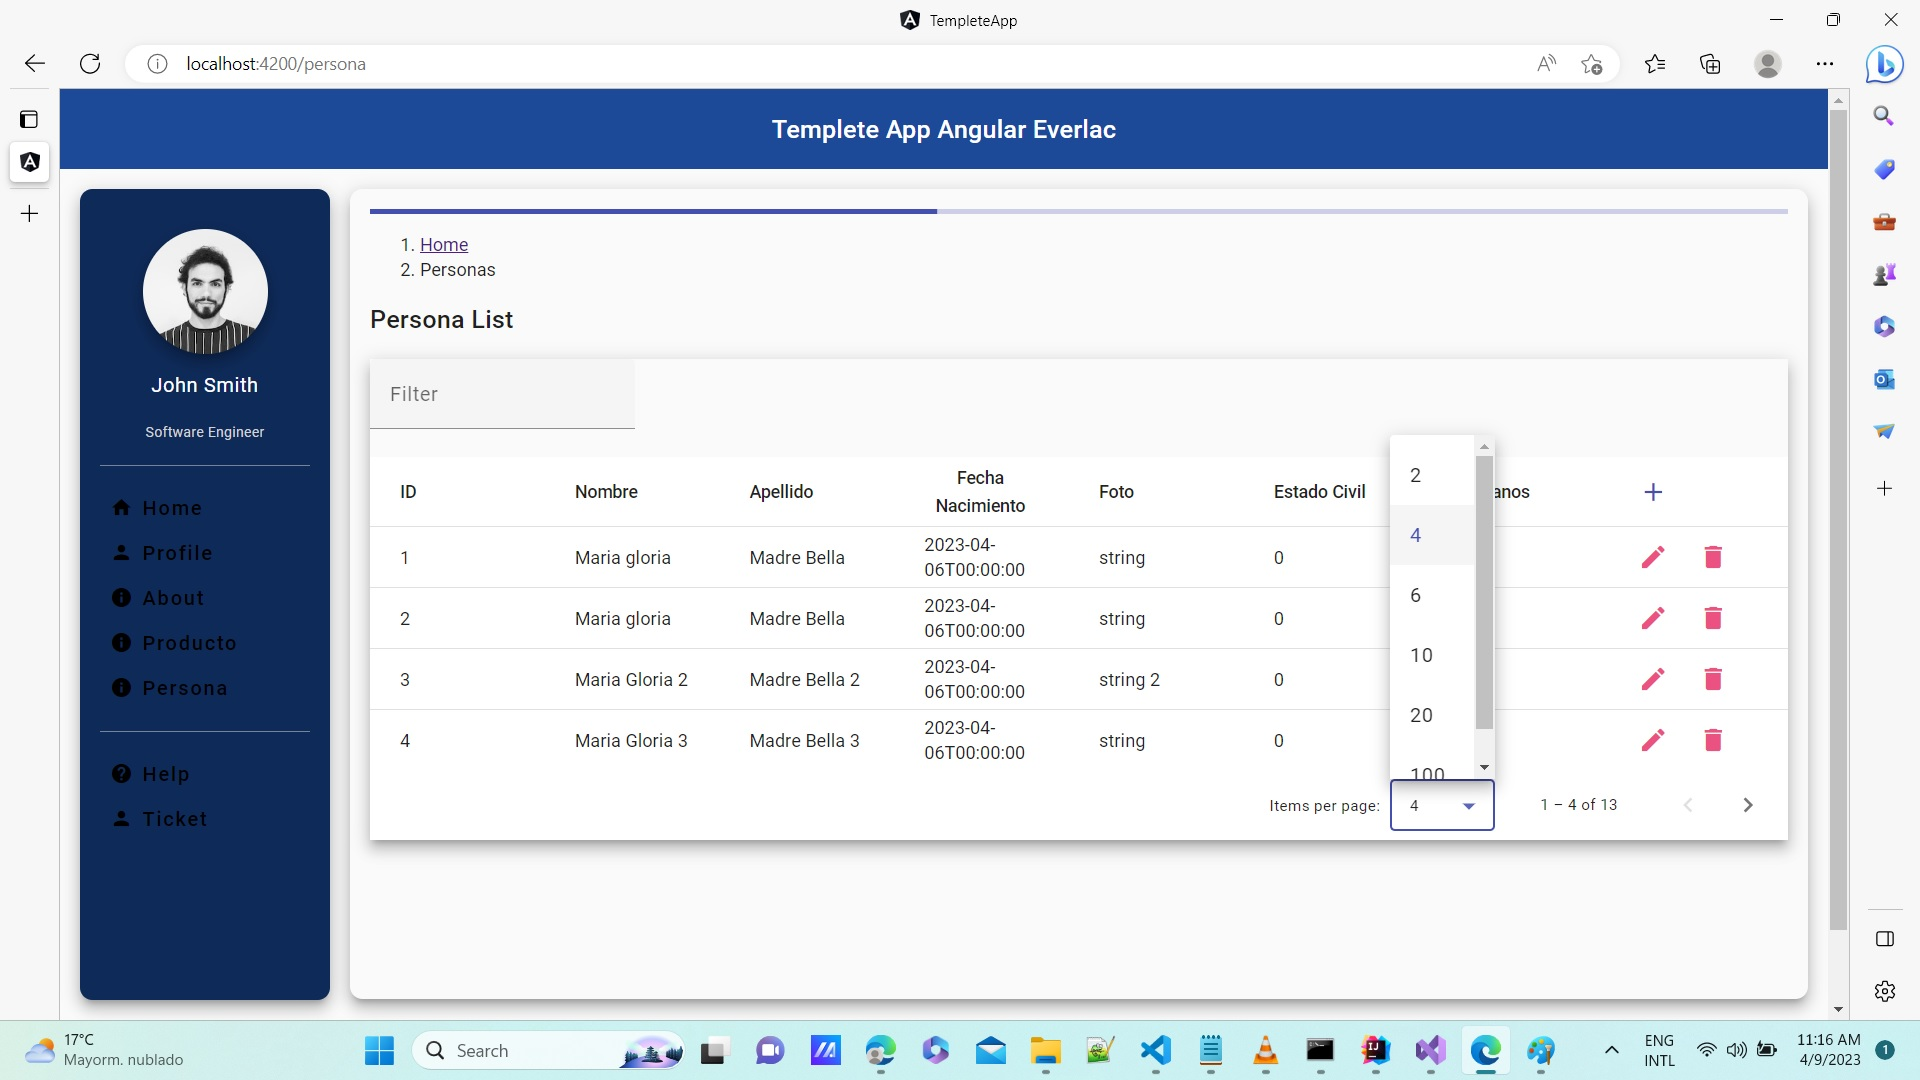
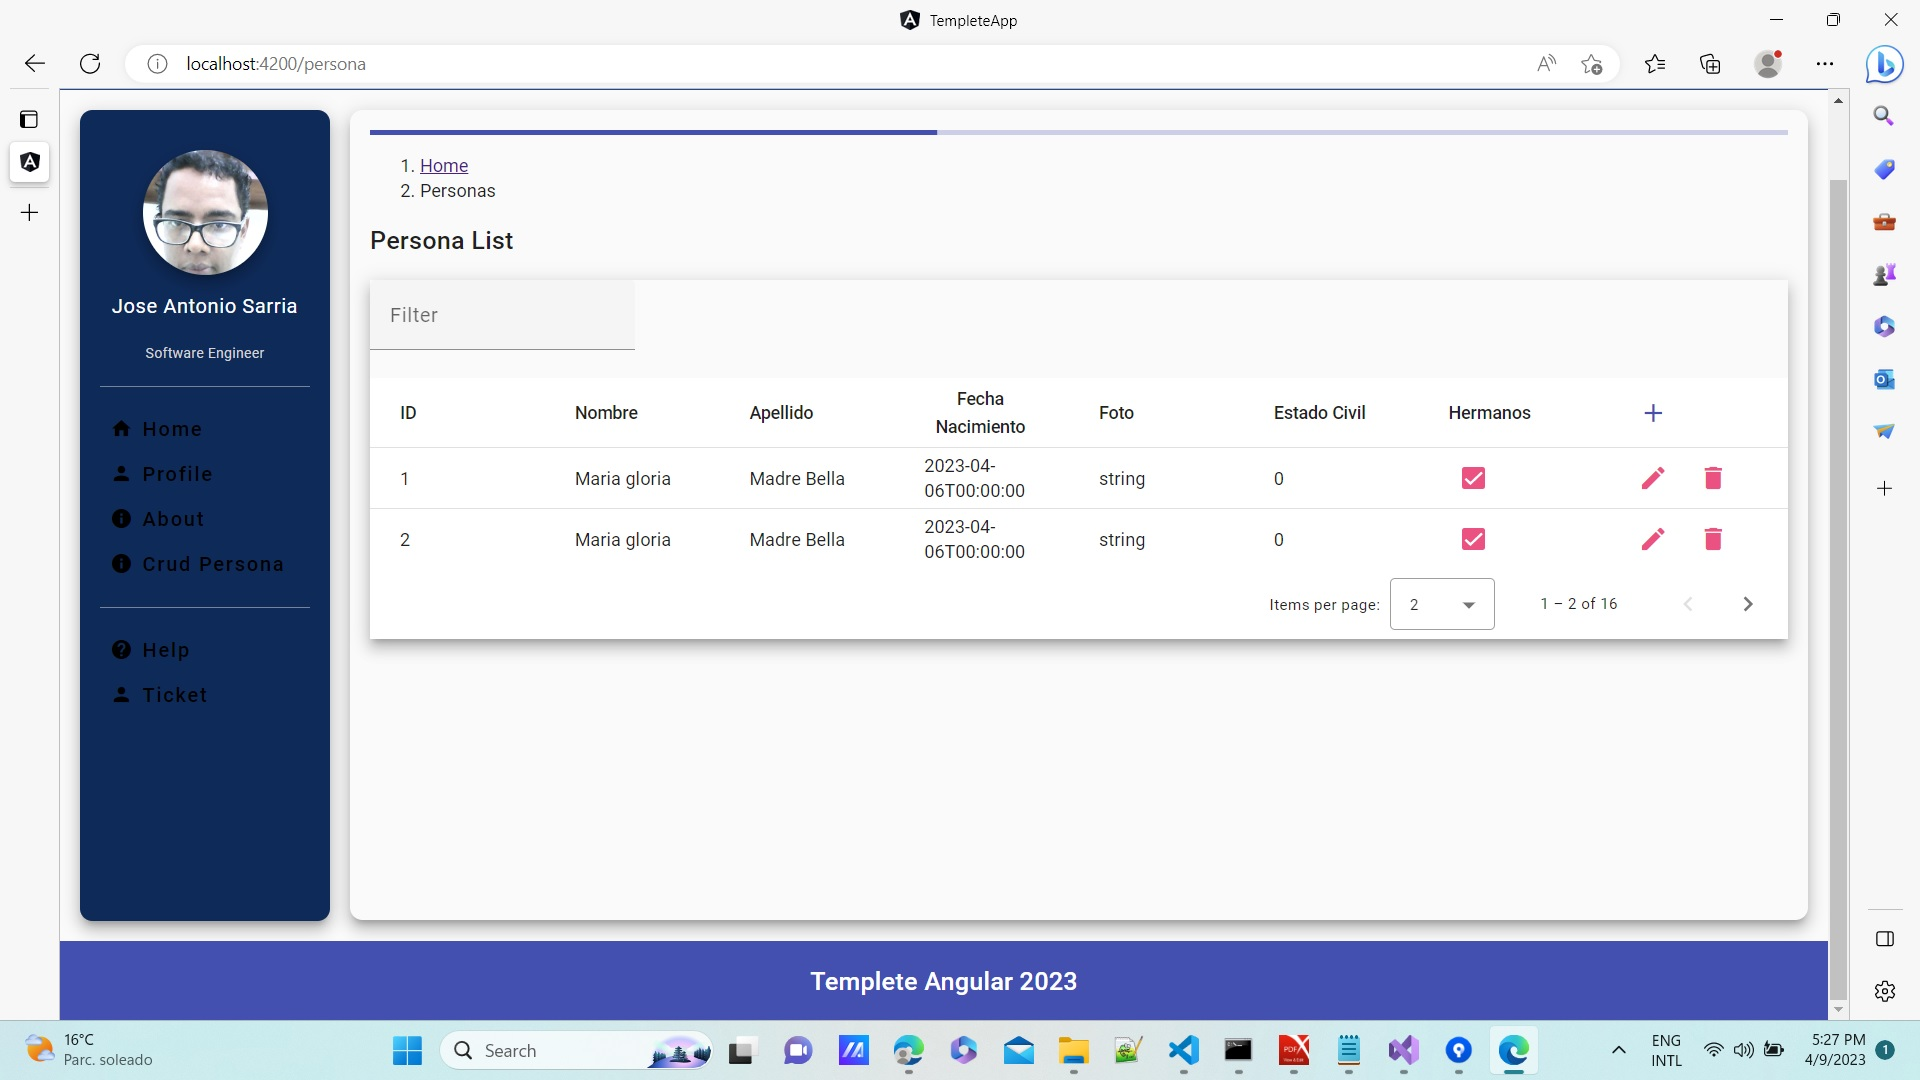
Subo codigo de la prueba

diff --git a/Front/src/app/pages/persona/persona.component.ts b/Front/src/app/pages/persona/persona.component.ts
@@ -1,4 +1,3 @@
-import { HttpClient } from '@angular/common/http';
 import { AfterViewInit, Component, ElementRef, OnInit, ViewChild } from '@angular/core';
 import { MatDialog } from '@angular/material/dialog';
 import { MatPaginator } from '@angular/material/paginator';
@@ -12,6 +11,7 @@ import { Persona } from './models/persona';
 import { PersonaService } from './service/persona.service';
 import { AgregarComponent } from './dialogs/agregar/agregar.component';
 import { EditarComponent } from './dialogs/editar/editar.component';
+import { SelectionModel } from '@angular/cdk/collections';
 
 
 
@@ -21,7 +21,7 @@ import { EditarComponent } from './dialogs/editar/editar.component';
   styleUrls: ['./persona.component.css']
 })
 export class PersonaComponent implements OnInit , AfterViewInit {
-
+  selection = new SelectionModel<Persona>(true, []);
   displayedColumn = ['id', 'nombre', 'descripcion', 'precio', 'cantidad', 'imagen', 'actions'];
   displayedColumns = ['id', 'nombre', 'apellido', 'fechaNacimiento', 'foto', 'estadoCivil', 'tieneHermanod', 'actions'];
   public productos = new MatTableDataSource<Producto>()
@@ -43,9 +43,34 @@ export class PersonaComponent implements OnInit , AfterViewInit {
     this.personas.sort = this.sort;
     this.personas.paginator = this.paginator;
   }
+
+  /** Whether the number of selected elements matches the total number of rows. */
+  isAllSelected() {
+    const numSelected = this.selection.selected.length;
+    const numRows = this.personas.data.length;
+    return numSelected === numRows;
+  }
+
+  /** Selects all rows if they are not all selected; otherwise clear selection. */
+  toggleAllRows() {
+    if (this.isAllSelected()) {
+      this.selection.clear();
+      return;
+    }
+
+    this.selection.select(...this.personas.data);
+  }
+
+    /** The label for the checkbox on the passed row */
+    checkboxLabel(row?: Persona): string {
+      if (!row) {
+        return `${this.isAllSelected() ? 'deselect' : 'select'} all`;
+      }
+      return `${this.selection.isSelected(row) ? 'deselect' : 'select'} row ${row.id + 1}`;
+    }
+
   ngOnInit(){
-    
-    //this.getAllProducto();
+   
     this.getAllPersona();
   }
   public getAllPersona = () => {

diff --git a/Front/src/app/pages/persona/persona.component.html b/Front/src/app/pages/persona/persona.component.html
@@ -60,12 +60,25 @@
           <mat-cell *matCellDef="let row"> {{row.estadoCivil}} </mat-cell>
         </ng-container>
 
-         <!-- estadoCivil Column -->
+         <!-- estadoCivil Column 
          <ng-container matColumnDef="tieneHermanod">
           <mat-header-cell *matHeaderCellDef mat-sort-header> Hermanos </mat-header-cell>
           <mat-cell *matCellDef="let row"> {{row.tieneHermanod}} </mat-cell>
-        </ng-container>
+         </ng-container>-->
 
+         <ng-container matColumnDef="tieneHermanod">
+          <mat-header-cell *matHeaderCellDef> Hermanos 
+          
+          </mat-header-cell>
+          <mat-cell *matCellDef="let row">
+            <mat-checkbox [(ngModel)]="row.tieneHermanod"
+                          (click)="$event.stopPropagation()"
+                          (change)="$event ? selection.toggle(row) : null"
+                          [checked]="selection.isSelected(row)"
+                          [aria-label]="checkboxLabel(row)">
+            </mat-checkbox>
+          </mat-cell>
+        </ng-container>
         
           <!-- actions -->
     <ng-container matColumnDef="actions">

diff --git a/Front/src/app/app.component.html b/Front/src/app/app.component.html
@@ -14,10 +14,10 @@
   <mat-sidenav #sidenav="matSidenav" class="mat-elevation-z8">
     <img
       class="avatar mat-elevation-z8"
-      src="https://source.unsplash.com/c_GmwfHBDzk/200x200"
+      src="https://avatars.githubusercontent.com/u/3068257?s=400&u=83551cea9fa540b5623a0305102daa020b2f9cfc&v=4"
     />
 
-    <h4 class="name">John Smith</h4>
+    <h4 class="name">Jose Antonio Sarria</h4>
     <p class="designation">Software Engineer</p>
 
     <mat-divider></mat-divider>
@@ -34,13 +34,10 @@
       <mat-icon>info</mat-icon>
       <span>About</span>
     </button>
-    <button mat-button class="menu-button" routerLink="/producto">
-      <mat-icon>info</mat-icon>
-      <span>Producto</span>
-    </button>
+
     <button mat-button class="menu-button" routerLink="/persona">
       <mat-icon>info</mat-icon>
-      <span>Persona</span>
+      <span>Crud Persona</span>
     </button>
     <mat-divider></mat-divider>
 

diff --git a/Front/src/app/app.module.ts b/Front/src/app/app.module.ts
@@ -35,7 +35,7 @@ import { AgregarComponent } from './pages/persona/dialogs/agregar/agregar.compon
 import { EditarComponent } from './pages/persona/dialogs/editar/editar.component';
 import { MatCardModule } from '@angular/material/card';
 import {MatDatepickerModule} from '@angular/material/datepicker';
-
+import { MatCheckboxModule } from '@angular/material/checkbox';
 @NgModule({
   declarations: [AppComponent, HomeComponent, ProfileComponent, AboutComponent, HelpComponent, NotFoundComponent, ProductoComponent, AddComponent, EditComponent, DeleteComponent, PersonaComponent, AgregarComponent, EditarComponent],
   imports: [
@@ -61,6 +61,7 @@ import {MatDatepickerModule} from '@angular/material/datepicker';
     MatDialogModule,
     MatCardModule,
     MatDatepickerModule,
+    MatCheckboxModule,
     ReactiveFormsModule
   ],
  providers: [

diff --git a/Front/src/app/pages/persona/persona.module.ts b/Front/src/app/pages/persona/persona.module.ts
@@ -28,6 +28,8 @@ import { AgregarComponent } from './dialogs/agregar/agregar.component';
 import { EditarComponent } from './dialogs/editar/editar.component';
 import {MatCardModule} from '@angular/material/card';
 import {MatDatepickerModule} from '@angular/material/datepicker';
+import { MatCheckboxModule } from '@angular/material/checkbox';
+
 @NgModule({
   declarations: [
     DeleteComponent,
@@ -67,6 +69,7 @@ exports: [
     HttpClientModule,
     MatCardModule,
     MatDatepickerModule,
+    MatCheckboxModule,
     CommonModule
   ],
   bootstrap: [AppComponent]
